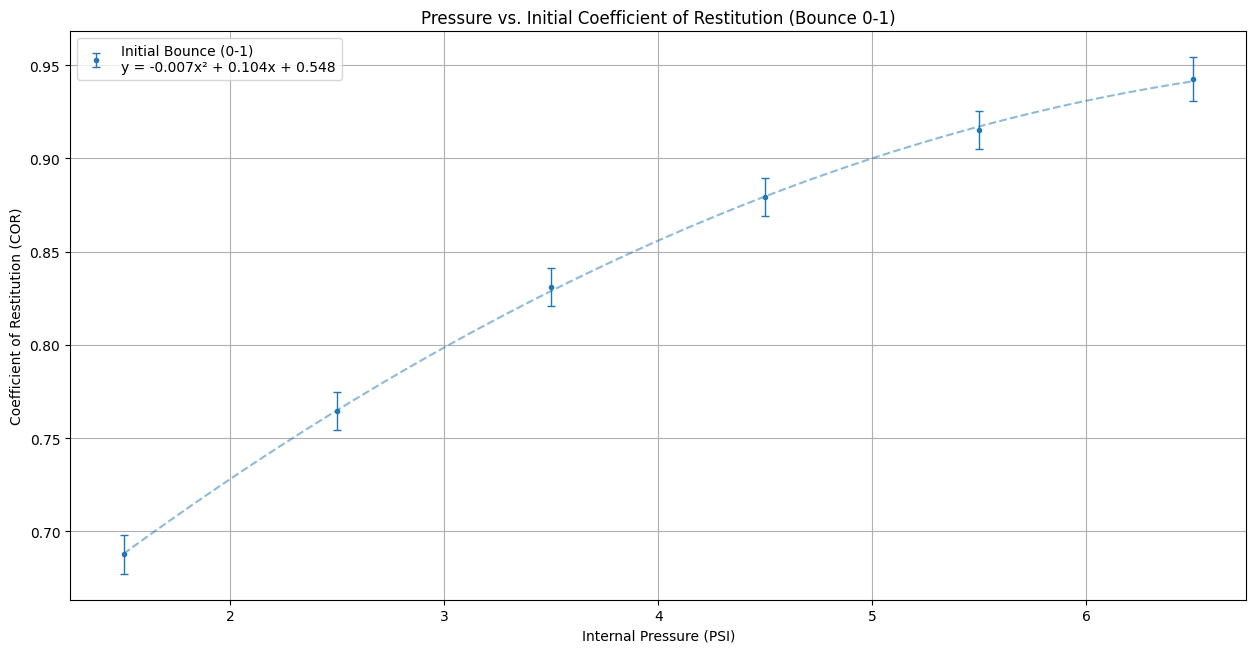
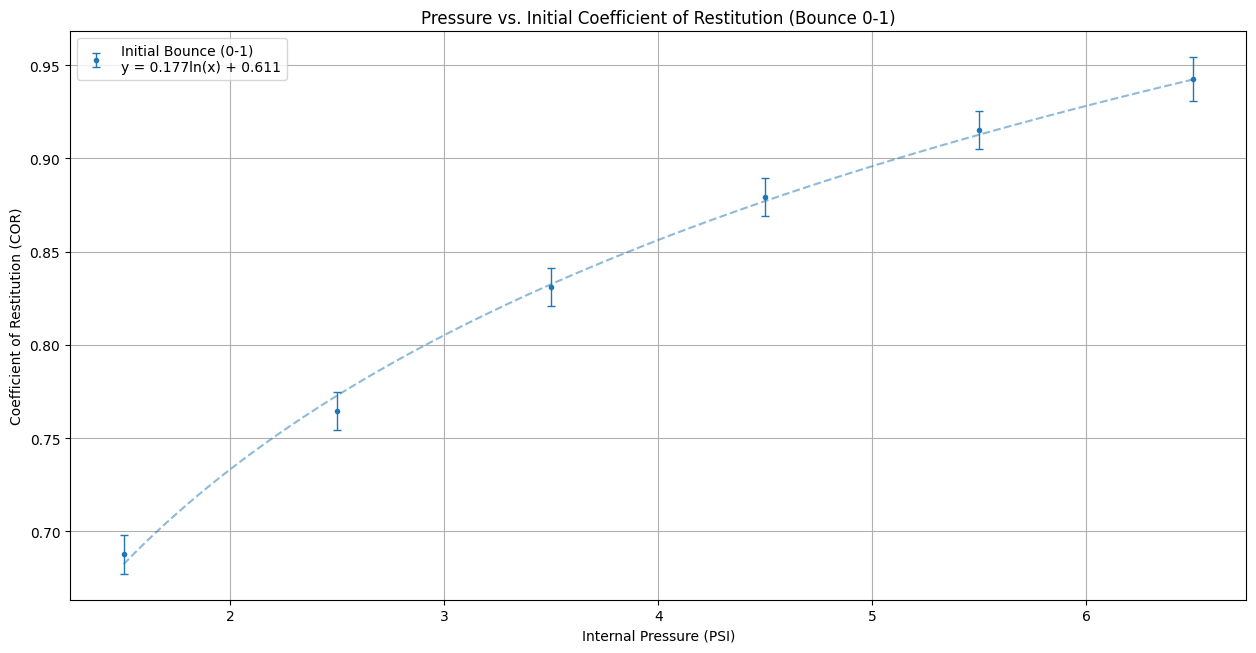
Change in Graph 5a and b (logarithmitic)

diff --git a/IA program for graphs/data_analysis.py b/IA program for graphs/data_analysis.py
@@ -300,7 +300,7 @@ if show_graphs:
     plt.grid(True)
     plot_and_save(fig4, 'bounce_vs_cor.png')
 
-    # 5a. Pressure vs Initial COR (Bounce 0-1) plot with polynomial fit
+    # 5a. Pressure vs Initial COR (Bounce 0-1) plot with logarithmic fit
     fig5a = plt.figure(figsize=(15.18, 7.38))
     
     # Get data for initial bounce (0-1)
@@ -318,24 +318,23 @@ if show_graphs:
         cors.append(cor)
         uncertainties.append(uncertainty)
     
-    # Add polynomial fit and create label with equation
-    z = np.polyfit(pressures_psi, cors, 2)
-    p = np.poly1d(z)
-    equation = f'y = {z[0]:.3f}x² + {z[1]:.3f}x + {z[2]:.3f}'
+    # Add logarithmic fit and create label with equation
+    z = np.polyfit(np.log(pressures_psi), cors, 1)
+    equation = f'y = {z[0]:.3f}ln(x) + {z[1]:.3f}'
     
     # Plot data, error bars, and fit with matching colors
     line = plt.errorbar(pressures_psi, cors, yerr=uncertainties,
                 fmt='o', label=f'Initial Bounce (0-1)\n{equation}',
                 markersize=3, capsize=3, capthick=1, elinewidth=1)
-    color = line.lines[0].get_color()  # Get color from the plotted points
+    color = line.lines[0].get_color()
     
     # Set the error bar color to match the points
-    line[1][0].set_color(color)  # Error bar lines
-    line[2][0].set_color(color)  # Error bar caps
+    line[1][0].set_color(color)
+    line[2][0].set_color(color)
     
-    # Plot polynomial fit with matching color
+    # Plot logarithmic fit with matching color
     x_fit = np.linspace(min(pressures_psi), max(pressures_psi), 100)
-    plt.plot(x_fit, p(x_fit), '--', alpha=0.5, color=color)
+    plt.plot(x_fit, z[0] * np.log(x_fit) + z[1], '--', alpha=0.5, color=color)
 
     plt.xlabel('Internal Pressure (PSI)')
     plt.ylabel('Coefficient of Restitution (COR)')
@@ -344,7 +343,7 @@ if show_graphs:
     plt.grid(True)
     plot_and_save(fig5a, 'pressure_vs_initial_cor.png')
 
-    # 5b. Pressure vs Subsequent COR plot with polynomial fits
+    # 5b. Pressure vs Subsequent COR plot with logarithmic fits
     fig5b = plt.figure(figsize=(15.18, 7.38))
     
     # Get data for each bounce transition (1-2 through 5-6)
@@ -362,24 +361,23 @@ if show_graphs:
             cors.append(cor)
             uncertainties.append(uncertainty)
         
-        # Add polynomial fit and create label with equation
-        z = np.polyfit(pressures_psi, cors, 2)
-        p = np.poly1d(z)
-        equation = f'y = {z[0]:.3f}x² + {z[1]:.3f}x + {z[2]:.3f}'
+        # Add logarithmic fit and create label with equation
+        z = np.polyfit(np.log(pressures_psi), cors, 1)
+        equation = f'y = {z[0]:.3f}ln(x) + {z[1]:.3f}'
         
         # Plot data, error bars, and fit with matching colors
         line = plt.errorbar(pressures_psi, cors, yerr=uncertainties,
                           fmt='o', label=f'Bounce {bounce_transition}-{bounce_transition+1}\n{equation}',
                           markersize=3, capsize=3, capthick=1, elinewidth=1)
-        color = line.lines[0].get_color()  # Get color from the plotted points
+        color = line.lines[0].get_color()
         
         # Set the error bar color to match the points
-        line[1][0].set_color(color)  # Error bar lines
-        line[2][0].set_color(color)  # Error bar caps
+        line[1][0].set_color(color)
+        line[2][0].set_color(color)
         
-        # Plot polynomial fit with matching color
+        # Plot logarithmic fit with matching color
         x_fit = np.linspace(min(pressures_psi), max(pressures_psi), 100)
-        plt.plot(x_fit, p(x_fit), '--', alpha=0.5, color=color)
+        plt.plot(x_fit, z[0] * np.log(x_fit) + z[1], '--', alpha=0.5, color=color)
 
     plt.xlabel('Internal Pressure (PSI)')
     plt.ylabel('Coefficient of Restitution (COR)')
@@ -388,7 +386,7 @@ if show_graphs:
     plt.grid(True)
     plot_and_save(fig5b, 'pressure_vs_subsequent_cor.png')
 
-    # 6. Combined Pressure vs All COR plot with polynomial fits
+    # 6. Combined Pressure vs All COR plot with logarithmic fits
     fig6 = plt.figure(figsize=(15.18, 7.38))
     
     # First plot initial bounce (0-1)
@@ -403,9 +401,8 @@ if show_graphs:
         cors.append(cor)
         uncertainties.append(uncertainty)
     
-    z = np.polyfit(pressures_psi, cors, 2)
-    p = np.poly1d(z)
-    equation = f'y = {z[0]:.3f}x² + {z[1]:.3f}x + {z[2]:.3f}'
+    z = np.polyfit(np.log(pressures_psi), cors, 1)
+    equation = f'y = {z[0]:.3f}ln(x) + {z[1]:.3f}'
     
     line = plt.errorbar(pressures_psi, cors, yerr=uncertainties,
                 fmt='o', label=f'Initial Bounce (0-1)\n{equation}',
@@ -415,7 +412,7 @@ if show_graphs:
     line[2][0].set_color(color)
     
     x_fit = np.linspace(min(pressures_psi), max(pressures_psi), 100)
-    plt.plot(x_fit, p(x_fit), '--', alpha=0.5, color=color)
+    plt.plot(x_fit, z[0] * np.log(x_fit) + z[1], '--', alpha=0.5, color=color)
 
     # Then plot subsequent bounces (1-2 through 5-6)
     for bounce_transition in range(1, 6):
@@ -430,9 +427,8 @@ if show_graphs:
             cors.append(cor)
             uncertainties.append(uncertainty)
         
-        z = np.polyfit(pressures_psi, cors, 2)
-        p = np.poly1d(z)
-        equation = f'y = {z[0]:.3f}x² + {z[1]:.3f}x + {z[2]:.3f}'
+        z = np.polyfit(np.log(pressures_psi), cors, 1)
+        equation = f'y = {z[0]:.3f}ln(x) + {z[1]:.3f}'
         
         line = plt.errorbar(pressures_psi, cors, yerr=uncertainties,
                           fmt='o', label=f'Bounce {bounce_transition}-{bounce_transition+1}\n{equation}',
@@ -442,7 +438,7 @@ if show_graphs:
         line[2][0].set_color(color)
         
         x_fit = np.linspace(min(pressures_psi), max(pressures_psi), 100)
-        plt.plot(x_fit, p(x_fit), '--', alpha=0.5, color=color)
+        plt.plot(x_fit, z[0] * np.log(x_fit) + z[1], '--', alpha=0.5, color=color)
 
     plt.xlabel('Internal Pressure (PSI)')
     plt.ylabel('Coefficient of Restitution (COR)')
